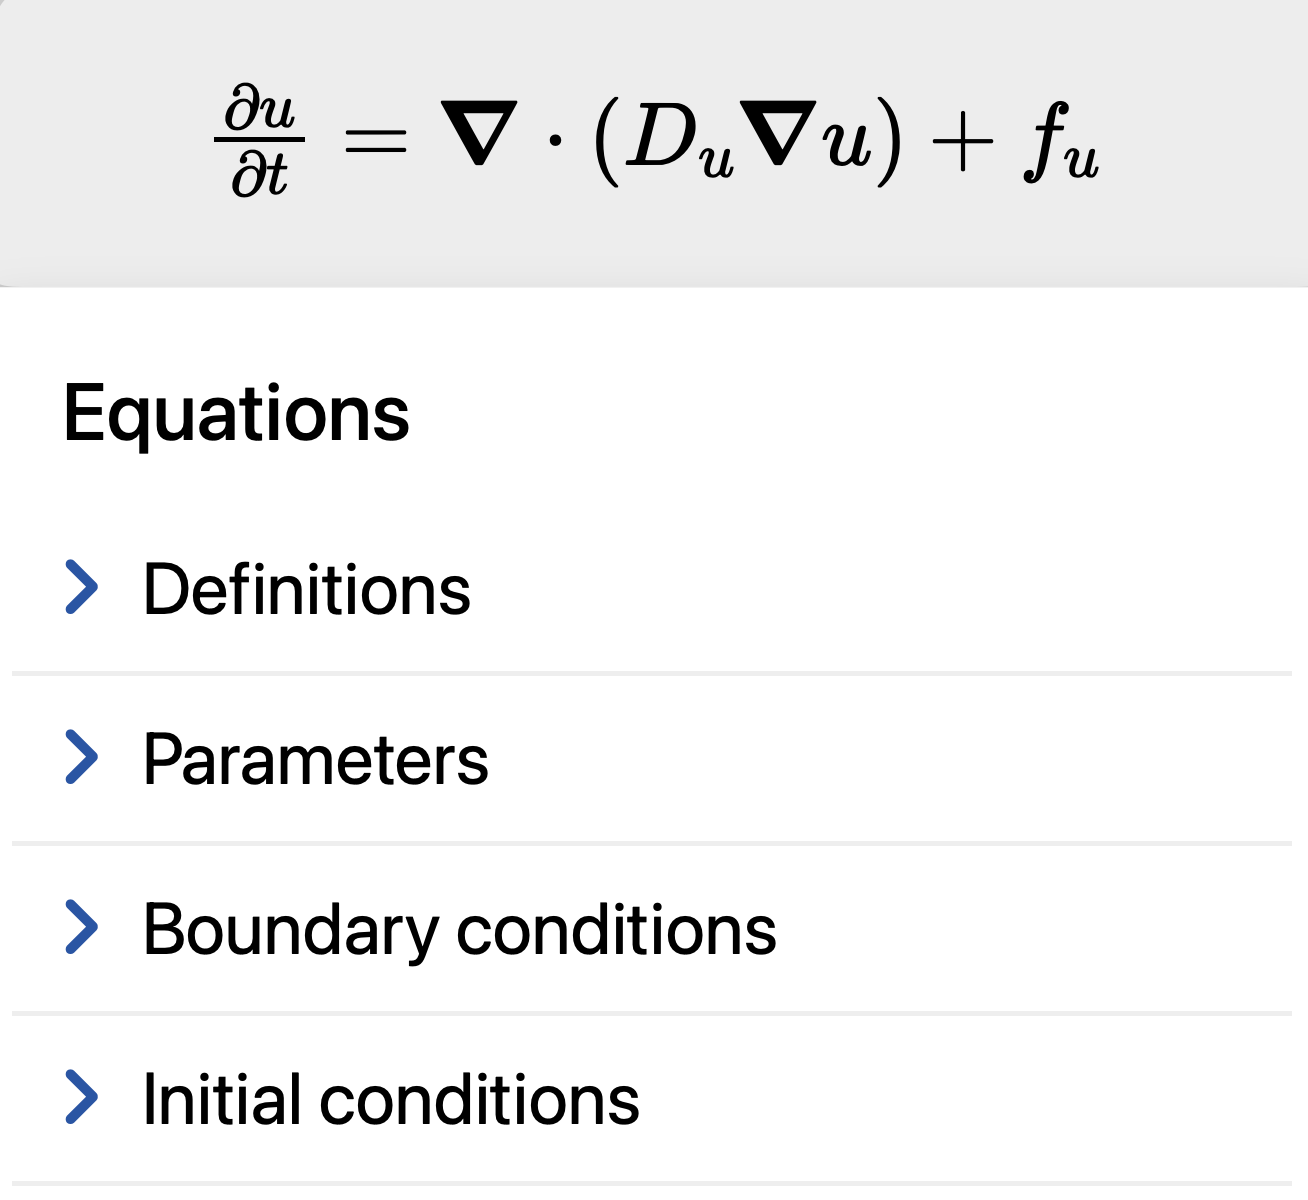
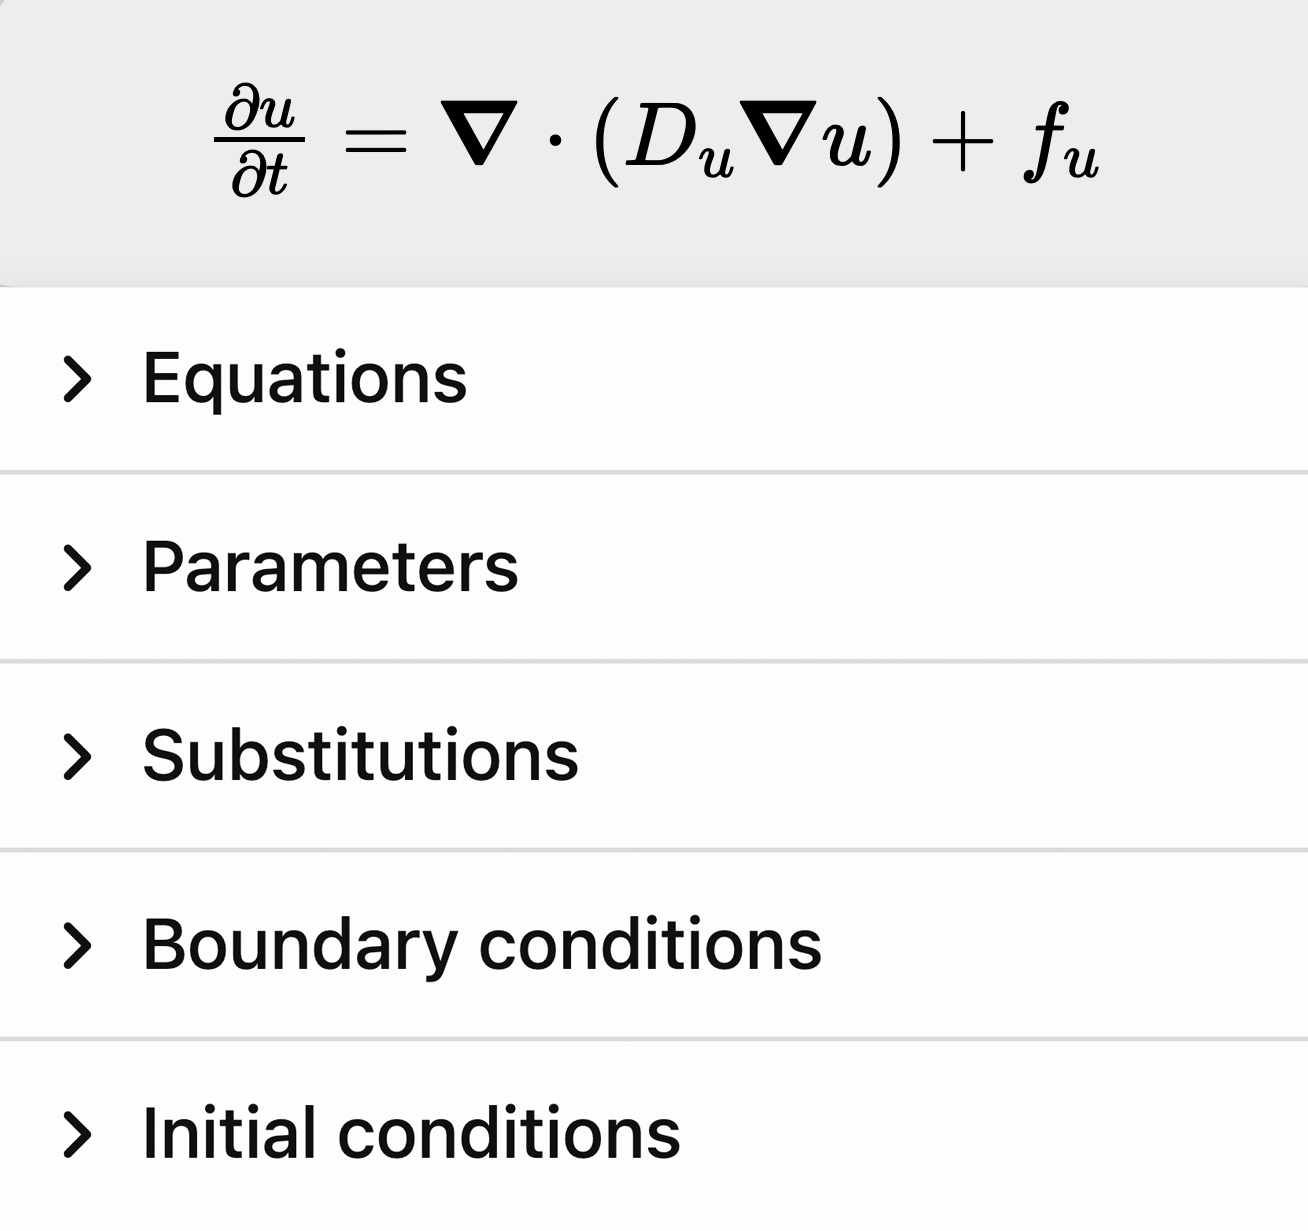
User guide updates

diff --git a/_user-guide/advanced-options.md b/_user-guide/advanced-options.md
@@ -138,7 +138,7 @@ Boundary conditions can be specified for any variables in the simulation. The fo
 - [Neumann](https://en.wikipedia.org/wiki/Neumann_boundary_condition) (e.g. $\pd{u}{n}\onboundary = 0$)
 - [Robin](https://en.wikipedia.org/wiki/Robin_boundary_condition) (e.g. $(u + \pd{u}{n})\onboundary = 0$)
 
-Boundary conditions that allow you to specify values can be functions of space ($x$, $y$), time ($t$), any of the unknowns ($u$, $v$, $w$, $q$), the size of the domain ($L$, $L_x$, $L_y$), the images ($I_S$, $I_T$) and any quantities defined in **Parameters**. Robin boundary conditions are the only type supported that allow you to use an unknown in the specification of its own boundary condition. See our discussion of [valid expressions](#writing-valid-expressions) for valid syntax and a list of available in-built functions.
+Boundary conditions that allow you to specify values can be functions of space ($x$, $y$), time ($t$), any of the unknowns ($u$, $v$, $w$, ...), the size of the domain ($L$, $L_x$, $L_y$), the images ($I_S$, $I_T$) and any quantities defined in **Parameters**. Robin boundary conditions are the only type supported that allow you to use an unknown in the specification of its own boundary condition. See our discussion of [valid expressions](#writing-valid-expressions) for valid syntax and a list of available in-built functions.
 
 An additional option, **Mixed...**, is also available, which allows you to specify different types of boundary condition on the Left, Right, Top and Bottom sides of rectangular domains.
 
@@ -176,7 +176,7 @@ Delete the currently selected View. Only visible if there are at least two views
 
 ### Expression
 
-Choose the expression that you want to be used to colour the domain, which can be any function of the variables solved for, as well as space, time, and user-defined parameters. Often, this is either $u$, $v$, $w$ or $q$. Explicitly, this can be a function of space ($x$, $y$), time ($t$), any of the unknowns ($u$, $v$, $w$, $q$) and their gradients ($u_x$, $u_y$, etc.), the size of the domain ($L$, $L_x$, $L_y$) and the images ($I_S$, $I_T$).
+Choose the expression that you want to be used to colour the domain, which can be any function of the variables solved for, as well as space, time, and user-defined parameters. Often, this is one of your variables, $u$, $v$, $w$, etc. Explicitly, this can be a function of space ($x$, $y$), time ($t$), any of the unknowns ($u$, $v$, $w$, ...) and their gradients ($u_x$, $u_y$, etc.), the size of the domain ($L$, $L_x$, $L_y$) and the images ($I_S$, $I_T$).
 
 ### Plot type
 
@@ -269,7 +269,7 @@ Toggle the display of an overlay. The expression, colour, and threshold used in 
 
 - #### Expression
 
-  Set an expression whose zero set defines a curve to be displayed in the domain. This can be a function of space ($x$, $y$), time ($t$), any of the unknowns ($u$, $v$, $w$, $q$), their gradients ($u_x$, $u_y$, etc.), the size of the domain ($L$, $L_x$, $L_y$), the images ($I_S$, $I_T$), and any quantities defined in **Parameters**. See our discussion of [valid expressions](#writing-valid-expressions) for valid syntax and a list of available in-built functions.
+  Set an expression whose zero set defines a curve to be displayed in the domain. This can be a function of space ($x$, $y$), time ($t$), any of the unknowns ($u$, $v$, $w$, ...), their gradients ($u_x$, $u_y$, etc.), the size of the domain ($L$, $L_x$, $L_y$), the images ($I_S$, $I_T$), and any quantities defined in **Parameters**. See our discussion of [valid expressions](#writing-valid-expressions) for valid syntax and a list of available in-built functions.
 
 - #### Threshold
   Set the relative numerical threshold, between 0 and 1, within which the zero set will be detected. Smaller values result in more precise, thinner curves. Larger values may be needed to detect curves in large spatial domains or for expressions that vary rapidly in space. Under the hood, VisualPDE checks if a given pixel is in the zero set to within this threshold.
@@ -280,7 +280,7 @@ When viewing surface plots, this menu will appear to allow you to customise aspe
 
 - #### Custom surface
 
-  Toggle the rendering of the solution on a custom, user-defined surface. The surface $z(x,y)$ is specified in **Surface $z$**, which appears when a custom surface is enabled. This definition can be a function of space ($x$, $y$), time ($t$), any user-defined parameters, any of the unknowns ($u$, $v$, $w$, $q$) and their first derivatives, the size of the domain ($L$, $L_x$, $L_y$) and the images ($I_S$, $I_T$).
+  Toggle the rendering of the solution on a custom, user-defined surface. The surface $z(x,y)$ is specified in **Surface $z$**, which appears when a custom surface is enabled. This definition can be a function of space ($x$, $y$), time ($t$), any user-defined parameters, any of the unknowns ($u$, $v$, $w$, ...) and their first derivatives, the size of the domain ($L$, $L_x$, $L_y$) and the images ($I_S$, $I_T$).
 
 - #### Height scale
 
@@ -314,7 +314,7 @@ Toggle the rendering of a vector field on top of the simulation. The definition,
 
 - #### $x$, $y$ component
 
-  Specify the $x$ and $y$ components of the vector field. These components can be functions of space ($x$, $y$), time ($t$), any user-defined parameters, any of the unknowns ($u$, $v$, $w$, $q$) and their first derivatives, the size of the domain ($L$, $L_x$, $L_y$) and the images ($I_S$, $I_T$).
+  Specify the $x$ and $y$ components of the vector field. These components can be functions of space ($x$, $y$), time ($t$), any user-defined parameters, any of the unknowns ($u$, $v$, $w$, ...) and their first derivatives, the size of the domain ($L$, $L_x$, $L_y$) and the images ($I_S$, $I_T$).
 
 - #### Density
 
@@ -337,7 +337,7 @@ Toggle the display of a live time series graph of the simulation. This can show 
 
 - #### Expression
 
-  Specify the expression to be sampled or integrated. This can be a function of space ($x$, $y$), time ($t$), any user-defined parameters, any of the unknowns ($u$, $v$, $w$, $q$) and their first derivatives, the size of the domain ($L$, $L_x$, $L_y$) and the images ($I_S$, $I_T$). Boundary conditions may not be accurately reflected in computed values.
+  Specify the expression to be sampled or integrated. This can be a function of space ($x$, $y$), time ($t$), any user-defined parameters, any of the unknowns ($u$, $v$, $w$, ...) and their first derivatives, the size of the domain ($L$, $L_x$, $L_y$) and the images ($I_S$, $I_T$). Boundary conditions may not be accurately reflected in computed values.
 
 - #### $x$, $y$
 
@@ -363,18 +363,18 @@ VisualPDE allows you to interact directly with simulations via a brush by simply
 
 - #### Type
 
-  Change the shape of the brush, choosing between **Disk**, **Square**, **Horizontal line** and **Vertical line**. An additional option, **Custom**, allows you to define a custom shape in the **_Indicator_** field by typing in an expression. The brush will draw wherever the expression is positive. Expressions can be a function of space ($x$, $y$), the brush coordinates ($xB$, $yB$), time ($t$), any user-defined parameters, any of the unknowns ($u$, $v$, $w$, $q$), the size of the domain ($L$, $L_x$, $L_y$), and the images ($I_S$, $I_T$).
+  Change the shape of the brush, choosing between **Disk**, **Square**, **Horizontal line** and **Vertical line**. An additional option, **Custom**, allows you to define a custom shape in the **_Indicator_** field by typing in an expression. The brush will draw wherever the expression is positive. Expressions can be a function of space ($x$, $y$), the brush coordinates ($xB$, $yB$), time ($t$), any user-defined parameters, any of the unknowns ($u$, $v$, $w$, ...), the size of the domain ($L$, $L_x$, $L_y$), and the images ($I_S$, $I_T$).
 
 - #### Value
 
-  Change the **value** that you are painting. This can be a function of space ($x$, $y$), time ($t$), any user-defined parameters, any of the unknowns ($u$, $v$, $w$, $q$), the size of the domain ($L$, $L_x$, $L_y$), the images ($I_S$, $I_T$), `RAND`, a uniformly random value in $[0,1]$, and `RANDN`, a normally-distributed random number with unit variance and zero mean. Using the alternate mouse button (often the right mouse button) will negate the value of the brush (unavailable on touch devices).
+  Change the **value** that you are painting. This can be a function of space ($x$, $y$), time ($t$), any user-defined parameters, any of the unknowns ($u$, $v$, $w$, ...), the size of the domain ($L$, $L_x$, $L_y$), the images ($I_S$, $I_T$), `RAND`, a uniformly random value in $[0,1]$, and `RANDN`, a normally-distributed random number with unit variance and zero mean. Using the alternate mouse button (often the right mouse button) will negate the value of the brush (unavailable on touch devices).
 
 - #### Radius
 
-  Change the brush size, measured on the same scale as the domain size. This can even be a function of space ($x$, $y$), time ($t$), any user-defined parameters, any of the unknowns ($u$, $v$, $w$, $q$), the size of the domain ($L$, $L_x$, $L_y$) and the images ($I_S$, $I_T$).
+  Change the brush size, measured on the same scale as the domain size. This can even be a function of space ($x$, $y$), time ($t$), any user-defined parameters, any of the unknowns ($u$, $v$, $w$, ...), the size of the domain ($L$, $L_x$, $L_y$) and the images ($I_S$, $I_T$).
 
 - #### Variables
-  Set the **variables** ($u$, $v$, $w$, $q$) you are painting.
+  Set the **variables** ($u$, $v$, $w$, ...) you are painting.
 
 ### Domain <a class="anchor" id='domain'>
 
@@ -392,7 +392,7 @@ VisualPDE allows you to interact directly with simulations via a brush by simply
 
 - #### Min. $x$, $y$
 
-  Set the minimum values of $x$ and $y$ in the simulation. This amounts to translating the simulation domain by $(x_{min}, y_{min})$. A common use of this is to centre the simulation domain at $(0,0)$ rather than $(L_x/2, L_y/2)$. Can be a function of $L_x$, $L_y$ and any of the user-defined parameters.
+  Set the minimum values of $x$ and $y$ in the simulation. This amounts to translating the simulation domain by $(x_{\text{min}}, y_{\text{min}})$. A common use of this is to centre the simulation domain at $(0,0)$ rather than $(L_x/2, L_y/2)$. Can be a function of $L_x$, $L_y$ and any of the user-defined parameters.
 
 - #### Fill screen
 
@@ -403,7 +403,7 @@ VisualPDE allows you to interact directly with simulations via a brush by simply
   Toggle the use of a custom domain $\domain$ that is determined implicitly from a user-set expression.
 
 - #### Ind. fun (indicator function)
-  Define the domain implicitly by setting a boolean (e.g. $x<0.5$) or a simple expression (e.g. $x-0.5$), where (strict) positivity identifies the interior of the domain. This can be a function of space ($x$, $y$), time ($t$), any of the unknowns ($u$, $v$, $w$, $q$), the size of the domain ($L$, $L_x$, $L_y$) and the images ($I_S$, $I_T$). In order to allow VisualPDE to correctly apply boundary conditions, the edge of the computational domain is always counted as being outside of the custom domain.
+  Define the domain implicitly by setting a boolean (e.g. $x<0.5$) or a simple expression (e.g. $x-0.5$), where (strict) positivity identifies the interior of the domain. This can be a function of space ($x$, $y$), time ($t$), any of the unknowns ($u$, $v$, $w$, ...), the size of the domain ($L$, $L_x$, $L_y$) and the images ($I_S$, $I_T$). In order to allow VisualPDE to correctly apply boundary conditions, the edge of the computational domain is always counted as being outside of the custom domain.
 
 ### Timestepping <a class="anchor" id='timestepping'>
 
@@ -417,7 +417,7 @@ VisualPDE allows you to interact directly with simulations via a brush by simply
 
 - #### Scheme
 
-  Select one of various timestepping schemes. [Forward Euler](https://en.wikipedia.org/wiki/Euler_method) is the fastest but least accurate; the [Midpoint Method](https://en.wikipedia.org/wiki/Midpoint_method) and [Runge-Kutta 4](https://en.wikipedia.org/wiki/Runge–Kutta_methods) improve upon the accuracy and stability of Forward Euler, though are associated with increased computational cost. [Adams-Bashforth 2](https://en.wikipedia.org/wiki/Linear_multistep_method#Two-step_Adams–Bashforth) is more accurate but less stable than Forward Euler. Use of higher accuracy schemes may require a reduction of Steps/frame to reduce stuttering due to increased computational load. When solving stochastic partial differential equations, only Forward Euler is supported.
+  Select one of various timestepping schemes. [Forward Euler](https://en.wikipedia.org/wiki/Euler_method) is the fastest but least accurate; the [midpoint method](https://en.wikipedia.org/wiki/Midpoint_method) and [Runge–Kutta 4](https://en.wikipedia.org/wiki/Runge–Kutta_methods) improve upon the accuracy and stability of forward Euler, though are associated with increased computational cost. [Adams–Bashforth 2](https://en.wikipedia.org/wiki/Linear_multistep_method#Two-step_Adams–Bashforth) is more accurate but less stable than forward Euler. Use of higher accuracy schemes may require a reduction of Steps/frame to reduce stuttering due to increased computational load. When solving stochastic partial differential equations, only forward Euler is supported.
 
 - #### Elapsed time
 
@@ -567,7 +567,7 @@ A [bump function](https://en.m.wikipedia.org/wiki/Bump_function) with compact su
 
 A [bivariate Gaussian function](https://en.wikipedia.org/wiki/Multivariate_normal_distribution) can be used with similar syntax to the bump function: `Gauss(X, Y, s)` is a correctly normalised Gaussian function centred at $(X,Y)$ with standard deviation `s`. The extended syntax `Gauss(X, Y, s_x, s_y)` produces a potentially asymmetric Gaussian with standard deviations `s_x` and `s_y` in the $x$ and $y$ directions, with zero correlation. Correlation can be specified via `Gauss(X, Y, s_x, s_y, r)`, where `r` is the correlation between the two directions.
 
-A quantity can be integrated over the domain at every timestep using the syntax `Int(expression)`, where `expression` can be a function of space ($x$, $y$), time ($t$), any user-defined parameters, any of the unknowns ($u$, $v$, $w$, $q$) and their first derivatives, the size of the domain ($L$, $L_x$, $L_y$) and the images ($I_S$, $I_T$). See our discussion of [valid expressions](#writing-valid-expressions) for valid syntax and a list of available in-built functions. As an example, you can track the total mass of a variable $u$ in a reaction term by writing `Int(u)` directly in that term.
+A quantity can be integrated over the domain at every timestep using the syntax `Int(expression)`, where `expression` can be a function of space ($x$, $y$), time ($t$), any user-defined parameters, any of the unknowns ($u$, $v$, $w$, ...) and their first derivatives, the size of the domain ($L$, $L_x$, $L_y$) and the images ($I_S$, $I_T$). See our discussion of [valid expressions](#writing-valid-expressions) for valid syntax and a list of available in-built functions. As an example, you can track the total mass of a variable $u$ in a reaction term by writing `Int(u)` directly in that term.
 
 Up to 4 distinct `Int(...)` expressions can be used across a simulation – VisualPDE automatically manages their evaluation behind the scenes, so the same expression, e.g. `Int(u)`, can be reused in as many fields as you like at no extra cost, while an unrelated 5th expression will raise an error. Each integral is coarsely approximated by a simple Riemann sum, with accuracy (and computational cost) increasing with mesh refinement, and is only computed while actually referenced somewhere in your simulation. The rate at which these integrals are recomputed is set by **Int. update** in <span class='click_sequence'>{{ layout.settings }} → **More...**</span>
 

diff --git a/_user-guide/quick-start.md b/_user-guide/quick-start.md
@@ -20,8 +20,9 @@ Pressing {{ layout.equations }} opens up the **equations panel**.
 
 Here you can:
 * See the [equation being simulated](#equations), here $\pd{u}{t} = \vnabla\cdot(D_u\vnabla u) + f_u$.
-* Set the named functions in the equations, here $D_u$ and $f_u$, under **Definitions**. These can be functions of any of the unknowns, space, and time (here $u$, $x$, $y$, and $t$), and of any parameters that will be defined further down the panel.
+* Set the named functions in the equations, here $D_u$ and $f_u$, under **Equations**. These can be functions of any of the unknowns, space, and time (here $u$, $x$, $y$, and $t$), and of any parameters that will be defined further down the panel.
 * Set the value of any extra parameters.
+* Introduce any notational substitutions to make your equations easier.
 * Set the [boundary conditions](#boundary-conditions).
 * Set the [initial conditions](#initial-conditions).
 * Set the [number and type of equations](#equations) to be solved.
@@ -54,21 +55,21 @@ $$\pd{u}{t} = \vnabla \cdot (D_u \vnabla u) + f_u,$$
 
 where $D_u$ and $f_u$ are functions of $u$, $x$, $y$, and $t$ that you can specify.
 
-The most complicated type is a coupled system of PDEs in four unknowns, $u$, $v$, $w$ and $q$:
+The most complicated type is a coupled system of PDEs in eight unknowns. As an illustration, for four unknowns, $u$, $v$, $w$ and $q$, the general system VisualPDE can solve is
 
 $$\begin{aligned}
 t_u\pd{u}{t} &= \vnabla \cdot(D_{uu}\vnabla u+D_{uv}\vnabla v+D_{uw}\vnabla w+D_{uq}\vnabla q) + f_u,\\
-\text{one of}\left\{\begin{matrix}\displaystyle t_v\pd{v}{t} \\ v\end{matrix}\right. & 
+\text{one of}\left\{\begin{matrix}\displaystyle t_v\pd{v}{t} \\ v\end{matrix}\right. &
 \begin{aligned}
     &= \vnabla \cdot(D_{vu}\vnabla u+D_{vv}\vnabla v+D_{vw}\vnabla w+D_{vq}\vnabla q) + f_v \vphantom{\displaystyle t_v\pd{v}{t}}, \\
     &= \vnabla \cdot(D_{vu}\vnabla u+D_{vw}\vnabla w+D_{vq}\vnabla q) + f_v,
 \end{aligned}\\
-\text{one of}\left\{\begin{matrix}\displaystyle t_w\pd{w}{t} \\ w\end{matrix}\right. & 
+\text{one of}\left\{\begin{matrix}\displaystyle t_w\pd{w}{t} \\ w\end{matrix}\right. &
 \begin{aligned}
     &= \vnabla \cdot(D_{wu}\vnabla u+D_{wv}\vnabla v+D_{ww}\vnabla w+D_{wq}\vnabla q) + f_w \vphantom{\displaystyle t_w\pd{w}{t}}, \\
     &= \vnabla \cdot(D_{wu}\vnabla u+D_{wv}\vnabla v+D_{wq}\vnabla q) + f_w,
 \end{aligned}\\
-\text{one of}\left\{\begin{matrix}\displaystyle t_q\pd{q}{t} \\ q\end{matrix}\right. & 
+\text{one of}\left\{\begin{matrix}\displaystyle t_q\pd{q}{t} \\ q\end{matrix}\right. &
 \begin{aligned}
     &= \vnabla \cdot(D_{qu}\vnabla u+D_{qv}\vnabla v+D_{qw}\vnabla w+D_{qq}\vnabla q) + f_q \vphantom{\displaystyle t_q\pd{q}{t}}, \\
     &= \vnabla \cdot(D_{qu}\vnabla u+D_{qv}\vnabla v+D_{qw}\vnabla w) + f_q,
@@ -77,9 +78,9 @@ t_u\pd{u}{t} &= \vnabla \cdot(D_{uu}\vnabla u+D_{uv}\vnabla v+D_{uw}\vnabla w+D_
 
 where $D_{uu}, \dots,  D_{qq}$, $f_u, \dots, f_q$ and $t_u, \dots, t_q$ are functions of $u$, $v$, $w$, $q$, $x$, $y$ and $t$ that you can specify.
 
-* You can change the number of unknowns by choosing <span class='click_sequence'>{{ layout.equations }} → **Variables** → **Num. variables**</span>
-* In systems of multiple unknowns, you can include terms representing cross-diffusion (e.g. $D_{uv}$, $D_{vu}$) by toggling <span class='click_sequence'>{{ layout.equations }} → **Cross diffusion**</span>
-* In systems of multiple unknowns, you can choose between a differential or algebraic equation for some of the variables (e.g. '$\partial w/\partial t=$' or '$w=$') by setting <span class='click_sequence'>{{ layout.equations }} → **Variables** → **Num. algebraic**</span>
+* You can change the number of unknowns by choosing <span class='click_sequence'>{{ layout.equations }} → **Equations** → **Variables** → **Number**</span>
+* In systems of multiple unknowns, you can include terms representing cross-diffusion (e.g. $D_{uv}$, $D_{vu}$) by toggling <span class='click_sequence'>{{ layout.equations }} → **Equations** → **Diffusion coefficients** →  **Cross diffusion**</span>
+* In systems of multiple unknowns, you can choose between a differential or algebraic equation for some of the variables (e.g. '$\partial w/\partial t=$' or '$w=$') by setting <span class='click_sequence'>{{ layout.equations }} → **Equations** → **Variables** → **No. algebraic**</span>
 
 ### More VisualPDE
 For a comprehensive list of all the options that you can set in VisualPDE, check out the [Advanced documentation](/user-guide/advanced-options), or discover what VisualPDE can solve in our brief [summary](/user-guide/what-can-visualpde-solve).

diff --git a/_user-guide/solver.md b/_user-guide/solver.md
@@ -74,7 +74,7 @@ $$ \pd{u}{t} \approx \frac{u(t+\dt) - u(t)}{\dt}$$
 
 for timestep $\dt$. This approach is far from state-of-the-art, but it is straightforward and intuitive to implement on massively parallel computing hardware (more on that [later](#browser)).
 
-In practice, its simplicity can lead to some problems, with [numerical instability](https://en.wikipedia.org/wiki/Euler_method#Numerical_stability) being perhaps the most pathological. Loosely speaking, the interaction between the forward Euler scheme and our spatial discretisation can lead to numerical artefacts ruining the solution, which typically occur when the ratio $D \, \dt / \dx^2$ is too small, where $D$ is any of the diffusion coefficients in the problem. Both the Midpoint Method and RK4 improve upon the stability of forward Euler, whilst the Adams–Bashforth scheme is generally less stable but more accurate than Forward Euler.
+In practice, its simplicity can lead to some problems, with [numerical instability](https://en.wikipedia.org/wiki/Euler_method#Numerical_stability) being perhaps the most pathological. Loosely speaking, the interaction between the forward Euler scheme and our spatial discretisation can lead to numerical artefacts ruining the solution, which typically occur when the ratio $D \, \dt / \dx^2$ is too small, where $D$ is any of the diffusion coefficients in the problem. Both the midpoint method and RK4 improve upon the stability of forward Euler, whilst the Adams–Bashforth scheme is generally less stable but more accurate than forward Euler.
 
 VisualPDE will try to tell you when it's fallen foul of stability issues (we periodically check for 'NaN' or $\pm\infty$ in the solution), at which point you might want to try reducing $\dt$, trying out a different solver, reducing the diffusion coefficients in your problem, or increasing $\dx$ (we recommend trying each of these things in this order). If you want to experience this for yourself for forward Euler, try clicking in [this](/sim/?preset=unstableHeatEquation) simulation. It turns out that only RK4 will make this simulation stable due to the relative size of the diffusion coefficient, timestep $\dt$ and spatial step $\dx$, which you can see for yourself by switching the timestepping scheme.
 
